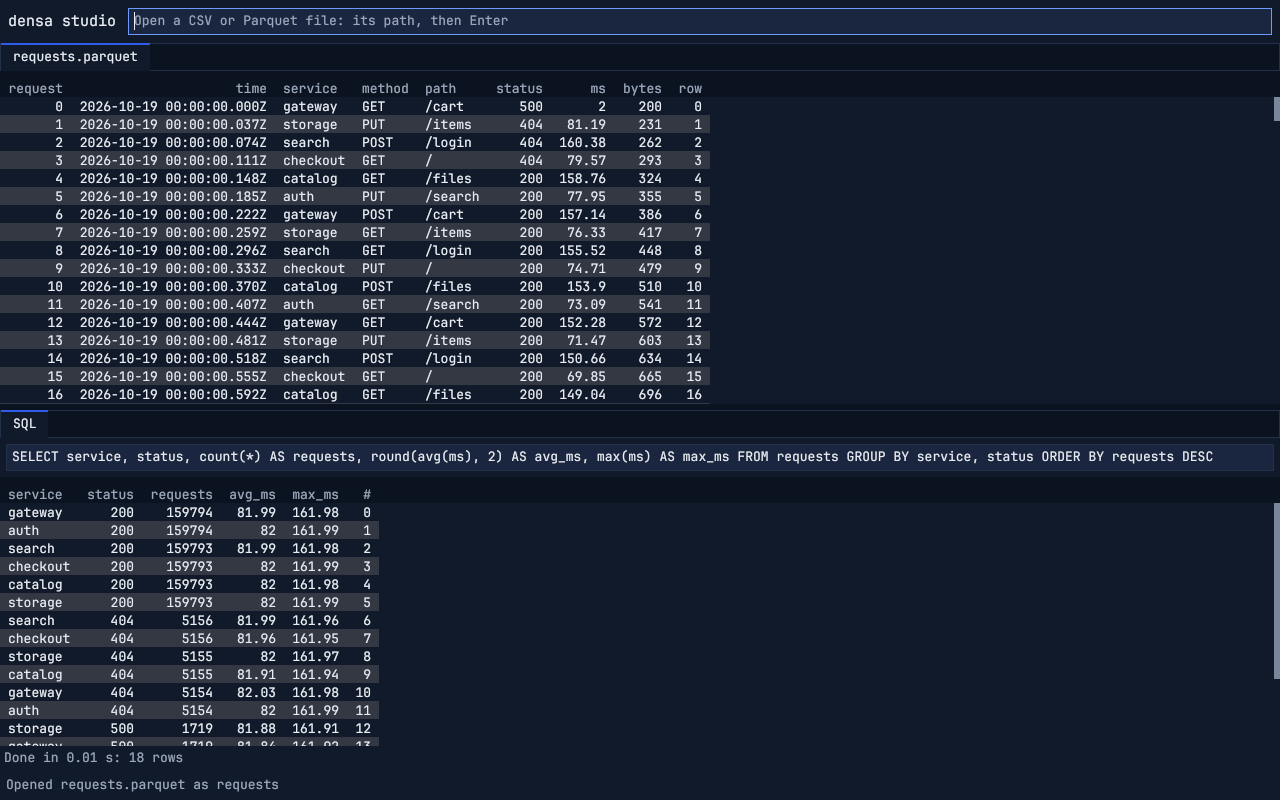
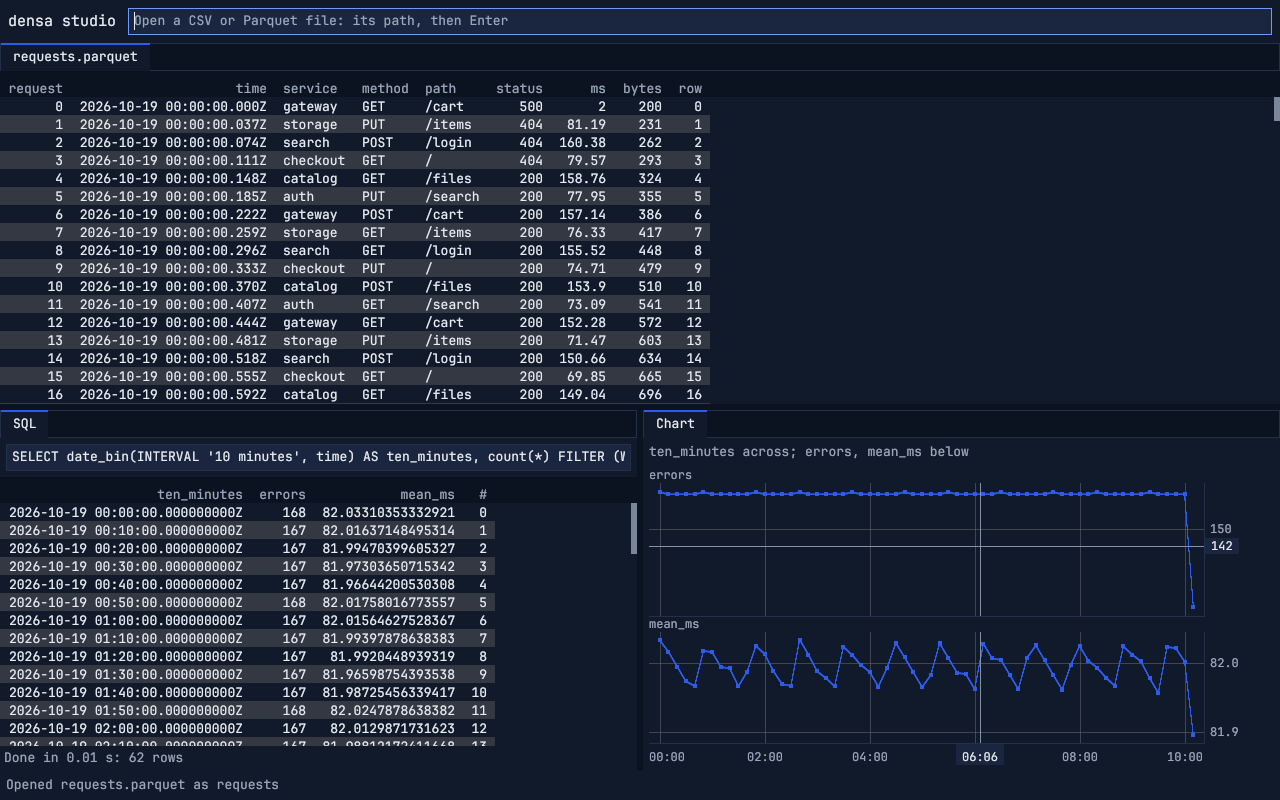
docs: the chart in the screenshot and README; chart tab padding

diff --git a/src/query.rs b/src/query.rs
@@ -71,9 +71,9 @@ impl Query {
         let spec = DockPanel::new("Chart").with_key("chart");
         let right = DockAt::Beside(panel, DockSide::Right);
         let chart_panel = DockArea::add_panel(ui, dock, Panel::new(), spec, right)?;
-        let body = ui.add(chart_panel, Panel::transparent(), Style::column().grow(1.0))?;
-        let line = Style::row().padding(6.0).shrink(0.0);
-        let line = ui.add(body, Panel::transparent(), line)?;
+        let body = Style::column().grow(1.0).padding(6.0).gap(6.0);
+        let body = ui.add(chart_panel, Panel::transparent(), body)?;
+        let line = ui.add(body, Panel::transparent(), Style::row().shrink(0.0))?;
         let waiting = Plotted::waiting();
         let caption = Label::new(waiting.caption()).wrapping().dim();
         let caption = ui.add(line, caption, Style::row().grow(1.0))?;

diff --git a/README.md b/README.md
@@ -6,7 +6,7 @@ it loads, SQL runs over all of them, and the result is charted as it comes. An o
 of live data, and on its [connectors](https://github.com/densa-rs/densa-connectors).
 
 <p align="center">
-  <img alt="densa studio: a million web requests in a grid, and below it a SQL query grouping them by service and status, with its result" src="https://raw.githubusercontent.com/densa-rs/densa-studio/main/docs/studio.png" width="760">
+  <img alt="densa studio: a million web requests in a grid; below it a SQL query counting errors and the mean time per ten minutes, its result, and a chart of the result with a pane for each" src="https://raw.githubusercontent.com/densa-rs/densa-studio/main/docs/studio.png" width="760">
 </p>
 
 > **Status: 0.1, experimental.** Studio is installed from this repository; it uses densa and
@@ -39,13 +39,14 @@ Or from a clone: `cargo run --release -- trips.parquet`.
   panel runs the query you type with Apache DataFusion and shows the result as it is
   computed; a query sees the files as far as they have loaded. Queries only read.
 - **A chart of the result.** The Chart tab beside the SQL panel puts the result's first
-  column across (a number, date or time) and gives each number column after it a pane of
-  its own, up to four, named in its corner:
+  column across (a number, date or timestamp) and gives each number column after it a pane
+  of its own, up to four, named above it:
   `SELECT date_trunc('minute', time) AS minute, count(*), avg(ms) FROM requests GROUP BY 1`
-  charts requests and their mean time per minute. It fills as the result comes, in order of
-  the first column, and shows all of it until you zoom (wheel) or pan (drag); a double click
-  follows the newest again. Selecting a row in the result marks it on the chart. A result it
-  cannot chart (text first) says why above it.
+  charts requests and their mean time per minute (no `ORDER BY` needed). It fills as the
+  result comes, in order of the first column, and shows all of it until you zoom (wheel) or
+  pan (drag), and again once you zoom out to all of it; a few points are drawn as dots.
+  Selecting a row in the result marks it on the chart. A result it cannot chart (text
+  first) says why above it; rows without a value in the first column are left out.
 - **A workspace that stays as you left it.** Tabs and panels can be dragged to other groups
   or split beside them, and the arrangement is restored next time (`--fresh` starts from the
   default one). It is saved in your configuration folder: `%APPDATA%\densa-studio` on
